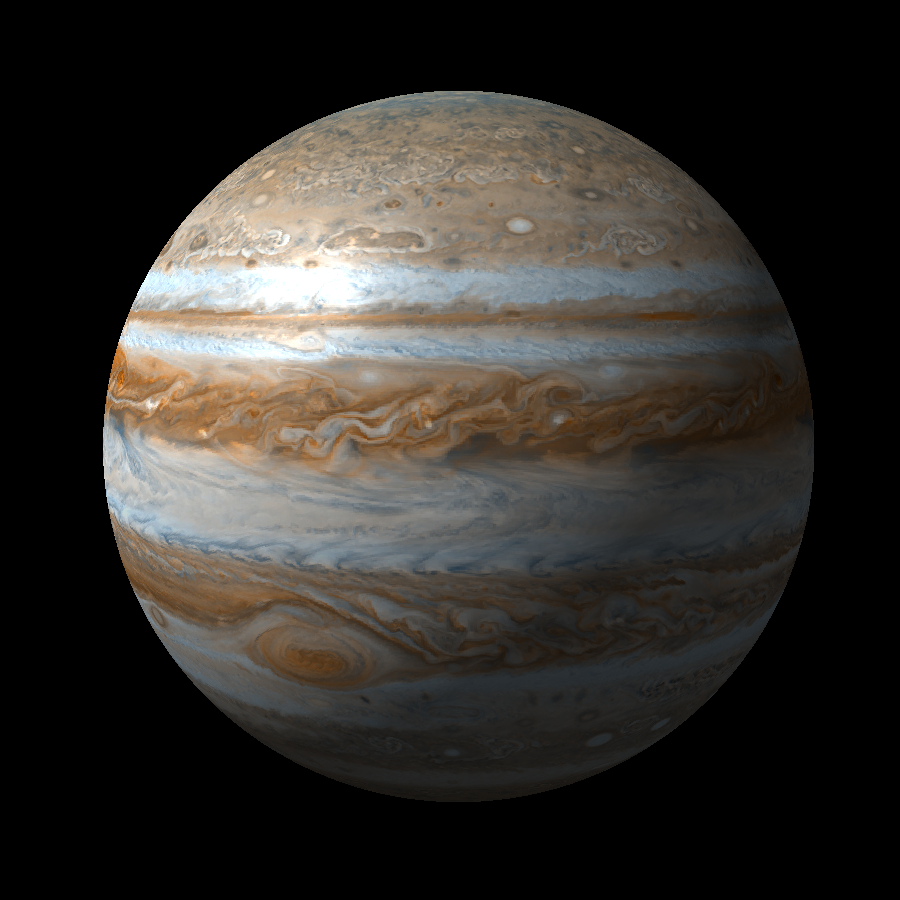
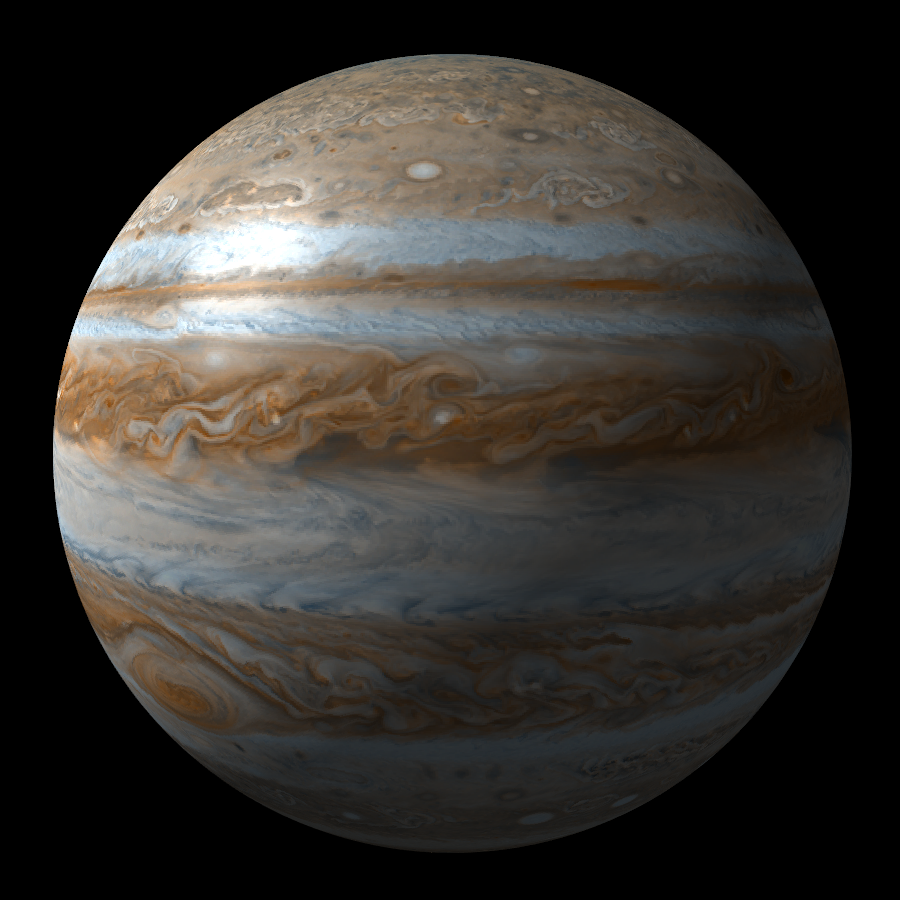
Add Anti-Aliasing

diff --git a/renderer/Window.cpp b/renderer/Window.cpp
@@ -14,11 +14,13 @@ Window::Window(
   Window::VSync = VSync;
 }
 
-unsigned int Window::GetWidth() {
+unsigned int Window::GetWidth()
+{
   return width;
 }
 
-unsigned int Window::GetHeight() {
+unsigned int Window::GetHeight()
+{
   return height;
 }
 
@@ -27,13 +29,17 @@ GLFWwindow *Window::GetGlfwWindow()
   return glfwWindow;
 }
 
-void Window::Init(const int versionMajor, const int versionMinor)
+void Window::Init(
+    const int versionMajor,
+    const int versionMinor,
+    const unsigned int samples)
 {
   if (!glfwInit())
     std::runtime_error("Could not initialize GLFW");
 
   glfwWindowHint(GLFW_CONTEXT_VERSION_MAJOR, versionMajor);
   glfwWindowHint(GLFW_CONTEXT_VERSION_MINOR, versionMinor);
+  glfwWindowHint(GLFW_SAMPLES, samples);
   glfwWindowHint(GLFW_OPENGL_PROFILE, GLFW_OPENGL_CORE_PROFILE);
 
   Window::glfwWindow = glfwCreateWindow(width, height, title.c_str(), nullptr, nullptr);

diff --git a/renderer/Application.cpp b/renderer/Application.cpp
@@ -32,9 +32,12 @@ void Application::SetBackgroundColor(Color backgroundColor)
   Application::backgroundColor = backgroundColor;
 }
 
-void Application::Init(const int versionMajor, const int versionMinor)
+void Application::Init(
+  const int versionMajor,
+  const int versionMinor,
+  const unsigned int samples)
 {
-  window.Init(versionMajor, versionMinor);
+  window.Init(versionMajor, versionMinor, samples);
 }
 
 void Application::Run()

diff --git a/renderer/Application.hpp b/renderer/Application.hpp
@@ -27,7 +27,10 @@ public:
 
   void SetBackgroundColor(Color backgroundColor);
 
-  void Init(const int versionMajor = 3, const int versionMinor = 3);
+  void Init(
+      const int versionMajor = 3,
+      const int versionMinor = 3,
+      const unsigned int samples = 8);
 
   void Run();
 

diff --git a/renderer/Window.hpp b/renderer/Window.hpp
@@ -30,7 +30,10 @@ public:
 
   GLFWwindow *GetGlfwWindow();
 
-  void Init(const int versionMajor, const int versionMinor);
+  void Init(
+      const int versionMajor,
+      const int versionMinor,
+      const unsigned int samples);
 };
 
 #endif
